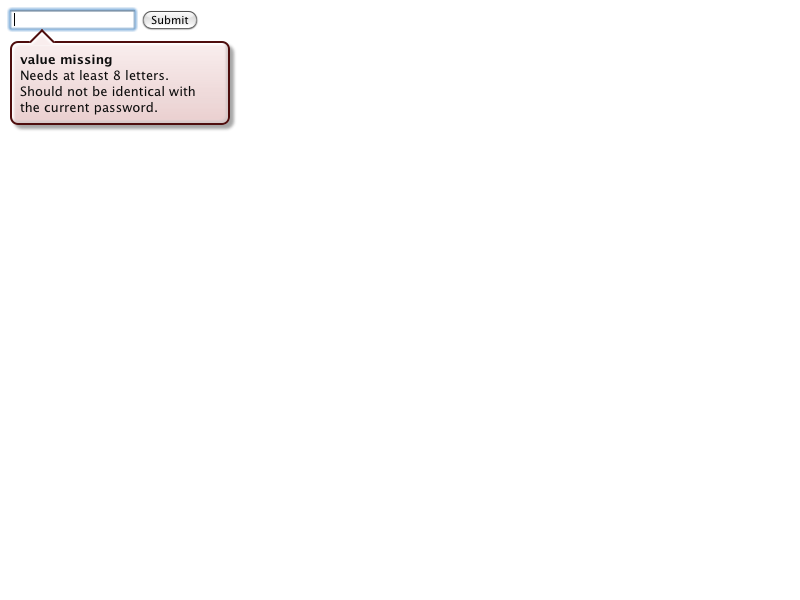
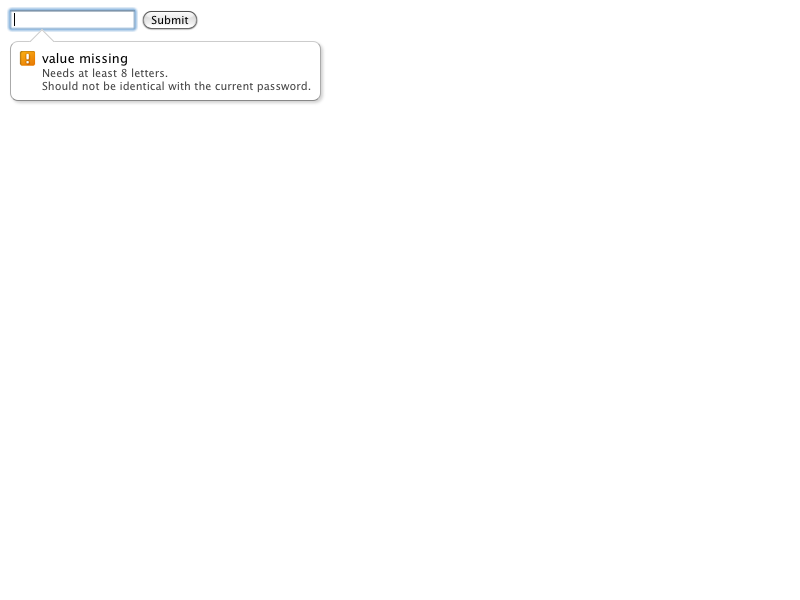
[Chromium] Make form validation bubble fit with Chrome UI style https://bugs.webkit.org/show_bug.cgi?id=65359
Reviewed by Hajime Morita.

Source/WebCore:

Change the appearance of validation message bubble for
Chromium. Basically it doesn't change for other ports.

- Introduce a new element to put an icon, and enclose it and the
message text by a flexible box.
- Repesent the message text by two elements. One for the heading,
another for the remaining.

- Introduce themeChromium.css

* WebCore.gyp/WebCore.gyp: Add themeChromium.css.
* css/html.css:
(::-webkit-validation-bubble-message): Make this a flexible box container.
(::-webkit-validation-bubble-text-block): Takes flexibility.
(::-webkit-validation-bubble-heading):
Make the content bold because we removed <b></b>.
* css/themeChromium.css: Added.
(::-webkit-validation-bubble):
(::-webkit-validation-bubble-message):
(::-webkit-validation-bubble-arrow):
(::-webkit-validation-bubble-arrow-clipper):
(::-webkit-validation-bubble-icon):
(::-webkit-validation-bubble-heading):
(::-webkit-validation-bubble-body):
* html/ValidationMessage.cpp:
(WebCore::ValidationMessage::setMessageDOMAndStartTimer):
Sets the text into m_messageHeading and m_messageBody, instead of m_bubbleMessage.
Use ASSERT_NO_EXCEPTION.
(WebCore::ValidationMessage::buildBubbleTree):
Build the new structure, and use ASSERT_NO_EXCEPTION.
(WebCore::ValidationMessage::deleteBubbleTree):
Clear m_messageHeading and m_messageBody.
* html/ValidationMessage.h:
* rendering/RenderThemeChromiumMac.h: Add extraDefaultStyleSheet().
* rendering/RenderThemeChromiumMac.mm:
[…]

Changed region(s): [[0.0, 0.06, 0.4062, 0.24]]

diff --git a/Source/WebCore/css/themeChromium.css b/Source/WebCore/css/themeChromium.css
@@ -1,0 +1,72 @@
+/*
+ * Copyright (C) 2011 Google Inc. All rights reserved.
+ *
+ * Redistribution and use in source and binary forms, with or without
+ * modification, are permitted provided that the following conditions are
+ * met:
+ *
+ *     * Redistributions of source code must retain the above copyright
+ * notice, this list of conditions and the following disclaimer.
+ *     * Redistributions in binary form must reproduce the above
+ * copyright notice, this list of conditions and the following disclaimer
+ * in the documentation and/or other materials provided with the
+ * distribution.
+ *     * Neither the name of Google Inc. nor the names of its
+ * contributors may be used to endorse or promote products derived from
+ * this software without specific prior written permission.
+ *
+ * THIS SOFTWARE IS PROVIDED BY THE COPYRIGHT HOLDERS AND CONTRIBUTORS
+ * "AS IS" AND ANY EXPRESS OR IMPLIED WARRANTIES, INCLUDING, BUT NOT
+ * LIMITED TO, THE IMPLIED WARRANTIES OF MERCHANTABILITY AND FITNESS FOR
+ * A PARTICULAR PURPOSE ARE DISCLAIMED. IN NO EVENT SHALL THE COPYRIGHT
+ * OWNER OR CONTRIBUTORS BE LIABLE FOR ANY DIRECT, INDIRECT, INCIDENTAL,
+ * SPECIAL, EXEMPLARY, OR CONSEQUENTIAL DAMAGES (INCLUDING, BUT NOT
+ * LIMITED TO, PROCUREMENT OF SUBSTITUTE GOODS OR SERVICES; LOSS OF USE,
+ * DATA, OR PROFITS; OR BUSINESS INTERRUPTION) HOWEVER CAUSED AND ON ANY
+ * THEORY OF LIABILITY, WHETHER IN CONTRACT, STRICT LIABILITY, OR TORT
+ * (INCLUDING NEGLIGENCE OR OTHERWISE) ARISING IN ANY WAY OUT OF THE USE
+ * OF THIS SOFTWARE, EVEN IF ADVISED OF THE POSSIBILITY OF SUCH DAMAGE.
+ */
+
+/* These styles override other user-agent styles for Chromium. */
+
+::-webkit-validation-bubble {
+    opacity: 1;
+}
+
+::-webkit-validation-bubble-message {
+    background: white;
+    border-color: #ccc #aaa #888;
+    border-width: 1px;
+    box-shadow: 2px 2px 4px rgba(100,100,100,0.3);
+    max-width: 300px;
+    top: -1px;
+}
+
+::-webkit-validation-bubble-arrow {
+    background: white;
+    border-color: #ccc;
+    border-width: 1px;
+    box-shadow: none;
+}
+
+::-webkit-validation-bubble-arrow-clipper {
+    height: 13px;
+}
+
+::-webkit-validation-bubble-icon {
+    /* The image was taken from http://src.chromium.org/viewvc/chrome/trunk/src/chrome/app/theme/update_available.png?revision=50754&view=markup */
[1 lines of base64/hex data omitted]
+    height: 17px;
+    margin-right: 6px;
+    width: 17px;
+}
+
+::-webkit-validation-bubble-heading {
+    font-weight: normal;
+}
+
+::-webkit-validation-bubble-body {
+    font-size: smaller;
+    color: #444;
+}

diff --git a/Source/WebCore/css/html.css b/Source/WebCore/css/html.css
@@ -724,7 +724,7 @@ output {
 }
 
 ::-webkit-validation-bubble-message {
-    display: block;
+    display: -webkit-box;
     position: relative;
     top: -4px;
     font: message-box;
@@ -741,6 +741,14 @@ output {
     line-height: normal;
     white-space: normal;
     z-index: 2147483644;
+}
+
+::-webkit-validation-bubble-text-block {
+    -webkit-box-flex: 1;
+}
+
+::-webkit-validation-bubble-heading {
+    font-weight: bold;
 }
 
 ::-webkit-validation-bubble-arrow {

diff --git a/LayoutTests/fast/forms/validation-message-appearance.html b/LayoutTests/fast/forms/validation-message-appearance.html
@@ -16,7 +16,7 @@
 document.getElementById('submit').click();
 if (window.layoutTestController) {
     layoutTestController.waitUntilDone();
-    setTimeout(function() { layoutTestController.notifyDone(); }, 0);
+    setTimeout(function() { layoutTestController.notifyDone(); }, 10);
 }
 </script>
 

diff --git a/Source/WebCore/html/ValidationMessage.cpp b/Source/WebCore/html/ValidationMessage.cpp
@@ -34,6 +34,7 @@
 #include "CSSPropertyNames.h"
 #include "CSSStyleSelector.h"
 #include "CSSValueKeywords.h"
+#include "ExceptionCodePlaceholder.h"
 #include "FormAssociatedElement.h"
 #include "HTMLBRElement.h"
 #include "HTMLDivElement.h"
@@ -80,21 +81,20 @@ void ValidationMessage::setMessage(const String& message)
 
 void ValidationMessage::setMessageDOMAndStartTimer(Timer<ValidationMessage>*)
 {
-    ASSERT(m_bubbleMessage);
-    m_bubbleMessage->removeAllChildren();
+    ASSERT(m_messageHeading);
+    ASSERT(m_messageBody);
+    m_messageHeading->removeAllChildren();
+    m_messageBody->removeAllChildren();
     Vector<String> lines;
     m_message.split('\n', lines);
-    Document* doc = m_bubbleMessage->document();
-    ExceptionCode ec = 0;
+    Document* doc = m_messageHeading->document();
     for (unsigned i = 0; i < lines.size(); ++i) {
         if (i) {
-            m_bubbleMessage->appendChild(HTMLBRElement::create(doc), ec);
-            m_bubbleMessage->appendChild(Text::create(doc, lines[i]), ec);
-        } else {
-            RefPtr<HTMLElement> bold = HTMLElement::create(bTag, doc);
-            bold->setInnerText(lines[i], ec);
-            m_bubbleMessage->appendChild(bold.release(), ec);
-        }
+            m_messageBody->appendChild(Text::create(doc, lines[i]), ASSERT_NO_EXCEPTION);
+            if (i < lines.size() - 1)
+                m_messageBody->appendChild(HTMLBRElement::create(doc), ASSERT_NO_EXCEPTION);
+        } else
+            m_messageHeading->setInnerText(lines[i], ASSERT_NO_EXCEPTION);
     }
 
     int magnification = doc->page() ? doc->page()->settings()->validationMessageTimerMaginification() : -1;
@@ -149,10 +149,22 @@ void ValidationMessage::buildBubbleTree(Timer<ValidationMessage>*)
     ASSERT(!ec);
     m_bubble->appendChild(clipper.release(), ec);
     ASSERT(!ec);
-    m_bubbleMessage = HTMLDivElement::create(doc);
-    m_bubbleMessage->setShadowPseudoId("-webkit-validation-bubble-message");
-    m_bubble->appendChild(m_bubbleMessage, ec);
-    ASSERT(!ec);
+
+    RefPtr<HTMLElement> message = HTMLDivElement::create(doc);
+    message->setShadowPseudoId("-webkit-validation-bubble-message");
+    RefPtr<HTMLElement> icon = HTMLDivElement::create(doc);
+    icon->setShadowPseudoId("-webkit-validation-bubble-icon");
+    message->appendChild(icon.release(), ASSERT_NO_EXCEPTION);
+    RefPtr<HTMLElement> textBlock = HTMLDivElement::create(doc);
+    textBlock->setShadowPseudoId("-webkit-validation-bubble-text-block");
+    m_messageHeading = HTMLDivElement::create(doc);
+    m_messageHeading->setShadowPseudoId("-webkit-validation-bubble-heading");
+    textBlock->appendChild(m_messageHeading, ASSERT_NO_EXCEPTION);
+    m_messageBody = HTMLDivElement::create(doc);
+    m_messageBody->setShadowPseudoId("-webkit-validation-bubble-body");
+    textBlock->appendChild(m_messageBody, ASSERT_NO_EXCEPTION);
+    message->appendChild(textBlock.release(), ASSERT_NO_EXCEPTION);
+    m_bubble->appendChild(message.release(), ASSERT_NO_EXCEPTION);
 
     setMessageDOMAndStartTimer();
 
@@ -169,7 +181,8 @@ void ValidationMessage::requestToHideMessage()
 void ValidationMessage::deleteBubbleTree(Timer<ValidationMessage>*)
 {
     if (m_bubble) {
-        m_bubbleMessage = 0;
+        m_messageHeading = 0;
+        m_messageBody = 0;
         HTMLElement* host = toHTMLElement(m_element);
         ExceptionCode ec;
         host->shadowRoot()->removeChild(m_bubble.get(), ec);

diff --git a/Source/WebCore/rendering/RenderThemeChromiumSkia.cpp b/Source/WebCore/rendering/RenderThemeChromiumSkia.cpp
@@ -97,7 +97,8 @@ RenderThemeChromiumSkia::~RenderThemeChromiumSkia()
 String RenderThemeChromiumSkia::extraDefaultStyleSheet()
 {
     return String(themeWinUserAgentStyleSheet, sizeof(themeWinUserAgentStyleSheet)) +
-           String(themeChromiumSkiaUserAgentStyleSheet, sizeof(themeChromiumSkiaUserAgentStyleSheet));
+           String(themeChromiumSkiaUserAgentStyleSheet, sizeof(themeChromiumSkiaUserAgentStyleSheet)) +
+           String(themeChromiumUserAgentStyleSheet, sizeof(themeChromiumUserAgentStyleSheet));
 }
 
 String RenderThemeChromiumSkia::extraQuirksStyleSheet()

diff --git a/Source/WebCore/rendering/RenderThemeChromiumMac.mm b/Source/WebCore/rendering/RenderThemeChromiumMac.mm
@@ -160,6 +160,13 @@ String RenderThemeChromiumMac::extraFullScreenStyleSheet()
 }
 #endif
 
+String RenderThemeChromiumMac::extraDefaultStyleSheet()
+{
+    return RenderThemeMac::extraDefaultStyleSheet() +
+           String(themeChromiumUserAgentStyleSheet, sizeof(themeChromiumUserAgentStyleSheet));
+}
+
+
 bool RenderThemeChromiumMac::paintMediaVolumeSliderContainer(RenderObject* object, const PaintInfo& paintInfo, const IntRect& rect)
 {
     return true;

diff --git a/Source/WebCore/html/ValidationMessage.h b/Source/WebCore/html/ValidationMessage.h
@@ -61,7 +61,8 @@ private:
     String m_message;
     OwnPtr<Timer<ValidationMessage> > m_timer;
     RefPtr<HTMLElement> m_bubble;
-    RefPtr<HTMLElement> m_bubbleMessage;
+    RefPtr<HTMLElement> m_messageHeading;
+    RefPtr<HTMLElement> m_messageBody;
 };
 
 } // namespace WebCore

diff --git a/Source/WebCore/rendering/RenderThemeChromiumMac.h b/Source/WebCore/rendering/RenderThemeChromiumMac.h
@@ -59,6 +59,7 @@ protected:
     virtual int popupInternalPaddingRight(RenderStyle*) const;
 private:
     virtual void updateActiveState(NSCell*, const RenderObject*);
+    virtual String extraDefaultStyleSheet();
 };
 
 } // namespace WebCore
